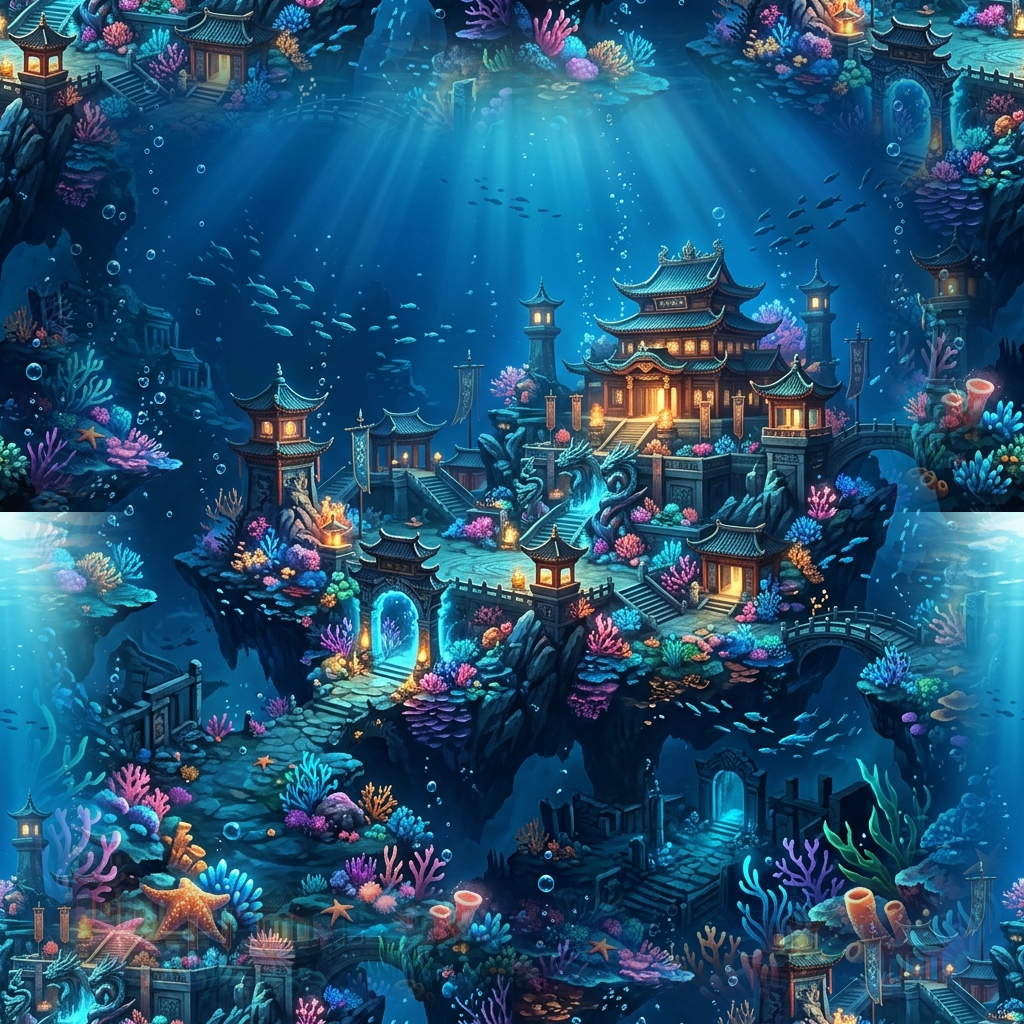
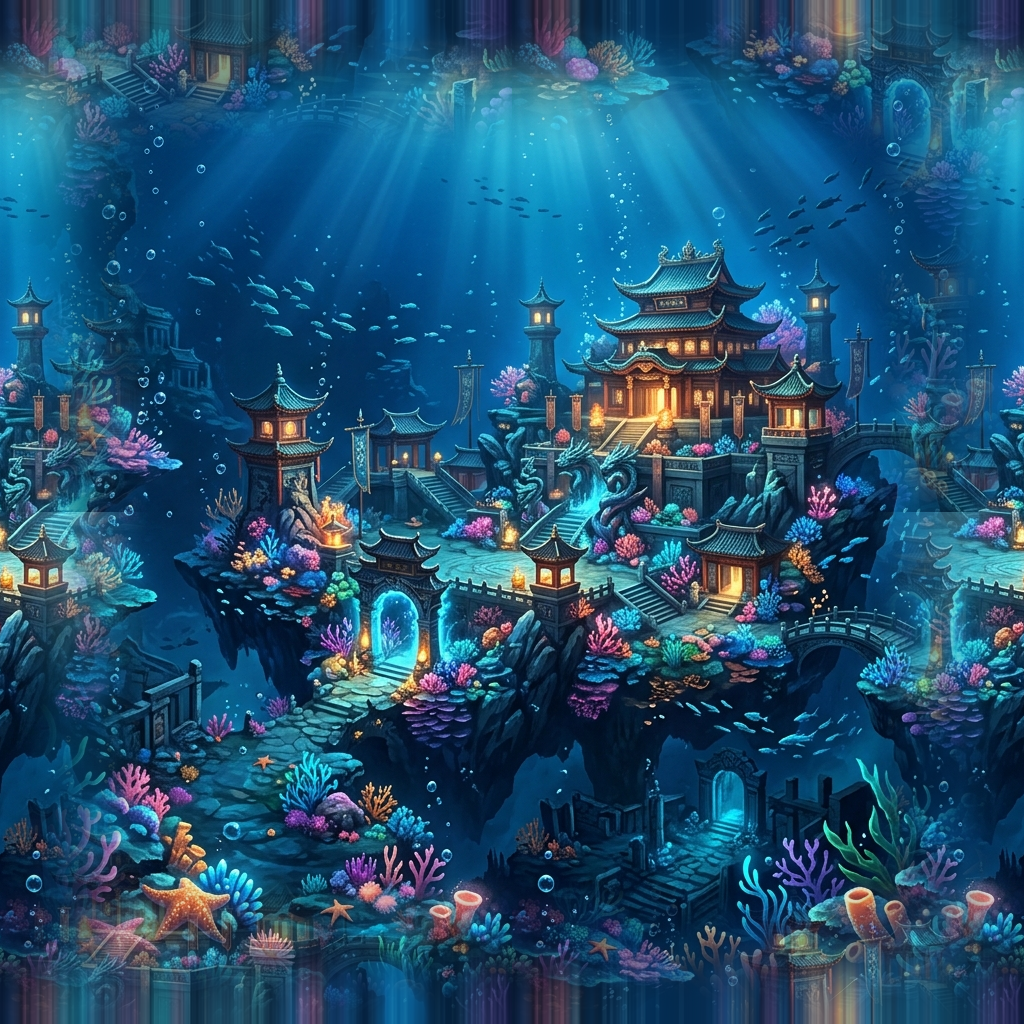
fix: 修复鱼类游动仰泳倒置姿态，恢复正向自然背景平铺

Changed region(s): [[0.0, 0.0, 1.0, 1.0]]

diff --git a/js/entities.js b/js/entities.js
@@ -118,7 +118,18 @@ class PlayerFish {
 
         ctx.save();
         ctx.translate(this.x, this.y);
-        ctx.rotate(this.angle + Math.PI);
+
+        // 自然游动姿态修正：确保鱼背永远朝上，绝不出现倒立或仰泳
+        const isFacingRight = Math.cos(this.angle) >= 0;
+        if (isFacingRight) {
+            ctx.scale(-1, 1);
+            ctx.rotate(-this.angle);
+        } else {
+            let rot = this.angle - Math.PI;
+            while (rot < -Math.PI) rot += Math.PI * 2;
+            while (rot > Math.PI) rot -= Math.PI * 2;
+            ctx.rotate(rot);
+        }
 
         // 底层软光晕
         const aura = ctx.createRadialGradient(0, 0, r * 0.4, 0, 0, r * 1.5);
@@ -239,8 +250,18 @@ class EnemyFish {
 
         ctx.save();
         ctx.translate(this.x, this.y);
-        // 关键修复：敌鱼图片原图鱼头朝左，旋转角增加 Math.PI，完全对齐实际物理移动角度 (this.angle)
-        ctx.rotate(this.angle + Math.PI);
+
+        // 自然游动姿态修正：确保鱼背永远朝上，绝不出现倒立或仰泳
+        const isFacingRight = Math.cos(this.angle) >= 0;
+        if (isFacingRight) {
+            ctx.scale(-1, 1);
+            ctx.rotate(-this.angle);
+        } else {
+            let rot = this.angle - Math.PI;
+            while (rot < -Math.PI) rot += Math.PI * 2;
+            while (rot > Math.PI) rot -= Math.PI * 2;
+            ctx.rotate(rot);
+        }
 
         const fIdx = this.getFrameIndex();
         const frames = STAGE_MOTION_FRAMES[this.stageIdx];
@@ -255,9 +276,10 @@ class EnemyFish {
             ctx.fill();
         }
 
-        // 绘制等级与精英标志（重置旋转视角，保证文字水平书写）
+        // 绘制等级与精英标志（重置坐标，保证文字在鱼头上方水平书写）
+        ctx.restore(); // 恢复当前鱼体旋转缩放，单独绘制 UI 文字
         ctx.save();
-        ctx.rotate(-(this.angle + Math.PI));
+        ctx.translate(this.x, this.y);
         if (this.isElite) {
             ctx.fillStyle = "#ffe169";
             ctx.font = "bold 13px sans-serif";

diff --git a/js/map.js b/js/map.js
@@ -64,29 +64,14 @@ class SeaMapManager {
             const imgW = this.bgImg.width;
             const imgH = this.bgImg.height;
 
-            // 视差无缝镜像拼接渲染：根据世界视角坐标定位 Tile 索引，偶数正向、奇数镜像翻转，完全消除横竖衔接缝隙
-            const worldX = camera.x * 0.5 - w / 2;
-            const worldY = camera.y * 0.5 - h / 2;
+            // 视差无缝平铺：保持建筑与海域景观天然正立姿态，配合预处理缝隙算法
+            const offsetX = (-(camera.x * 0.5) % imgW + imgW) % imgW;
+            const offsetY = (-(camera.y * 0.5) % imgH + imgH) % imgH;
 
-            const startCol = Math.floor(worldX / imgW);
-            const endCol = Math.floor((worldX + w) / imgW);
-            const startRow = Math.floor(worldY / imgH);
-            const endRow = Math.floor((worldY + h) / imgH);
-
-            for (let r = startRow; r <= endRow; r++) {
-                for (let c = startCol; c <= endCol; c++) {
-                    const drawX = Math.floor(c * imgW - worldX);
-                    const drawY = Math.floor(r * imgH - worldY);
-
-                    const flipX = Math.abs(c) % 2 === 1;
-                    const flipY = Math.abs(r) % 2 === 1;
-
-                    ctx.save();
-                    ctx.translate(drawX + (flipX ? imgW : 0), drawY + (flipY ? imgH : 0));
-                    ctx.scale(flipX ? -1 : 1, flipY ? -1 : 1);
-                    // 增加 1.5px 极小绘制重叠，彻底消除 Canvas 高分屏亚像素线条
-                    ctx.drawImage(this.bgImg, 0, 0, imgW + 1.5, imgH + 1.5);
-                    ctx.restore();
+            // 无缝平铺背景，添加 1.5px 极小重叠防止 Canvas 亚像素缝隙黑线
+            for (let x = offsetX - imgW; x < w + imgW; x += imgW) {
+                for (let y = offsetY - imgH; y < h + imgH; y += imgH) {
+                    ctx.drawImage(this.bgImg, Math.floor(x), Math.floor(y), imgW + 1.5, imgH + 1.5);
                 }
             }
         } else {
